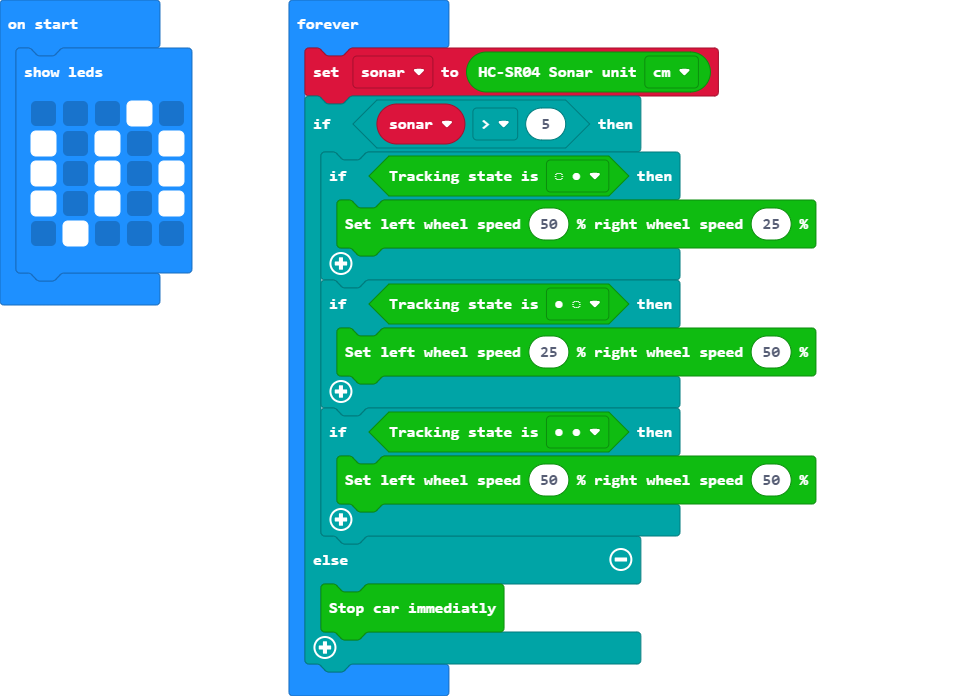
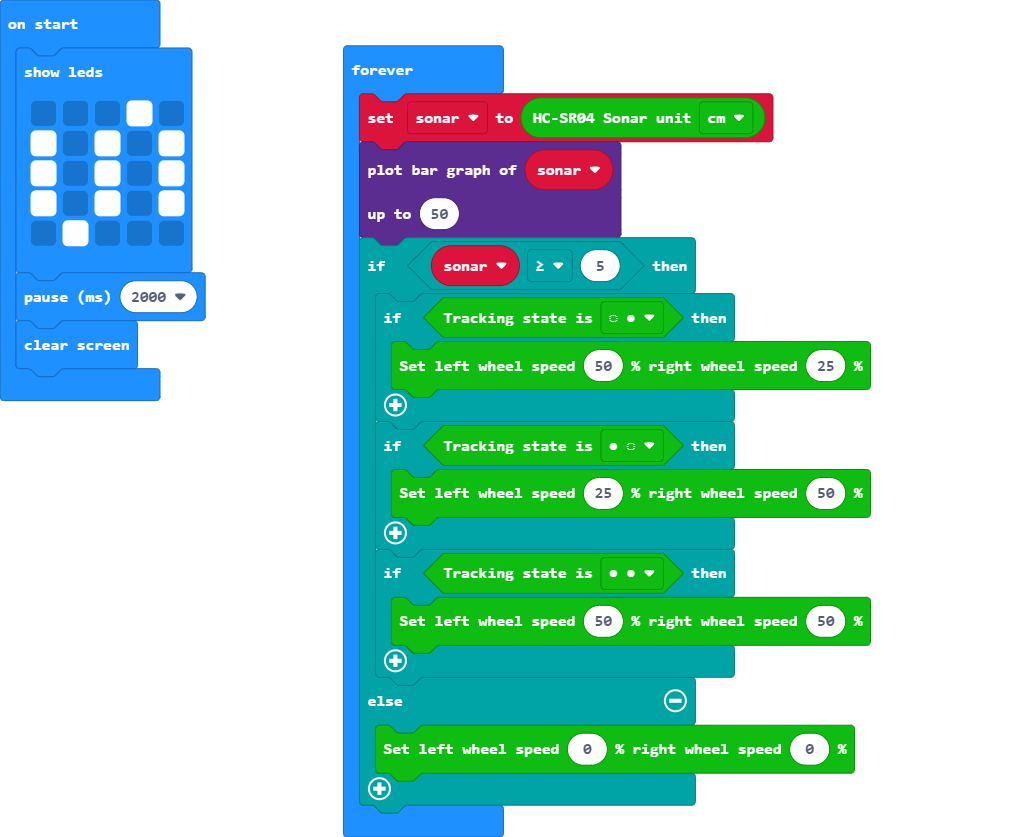
Update main.blocks, main.ts

diff --git a/main.ts b/main.ts
@@ -6,9 +6,15 @@ basic.showLeds(`
     # . # . #
     . # . . .
     `)
+basic.pause(2000)
+basic.clearScreen()
 basic.forever(function () {
     sonar = cuteBot.ultrasonic(cuteBot.SonarUnit.Centimeters)
-    if (sonar > 5) {
+    led.plotBarGraph(
+    sonar,
+    50
+    )
+    if (sonar >= 5) {
         if (cuteBot.tracking(cuteBot.TrackingState.L_unline_R_line)) {
             cuteBot.motors(50, 25)
         }
@@ -19,6 +25,6 @@ basic.forever(function () {
             cuteBot.motors(50, 50)
         }
     } else {
-        cuteBot.stopcar()
+        cuteBot.motors(0, 0)
     }
 })
